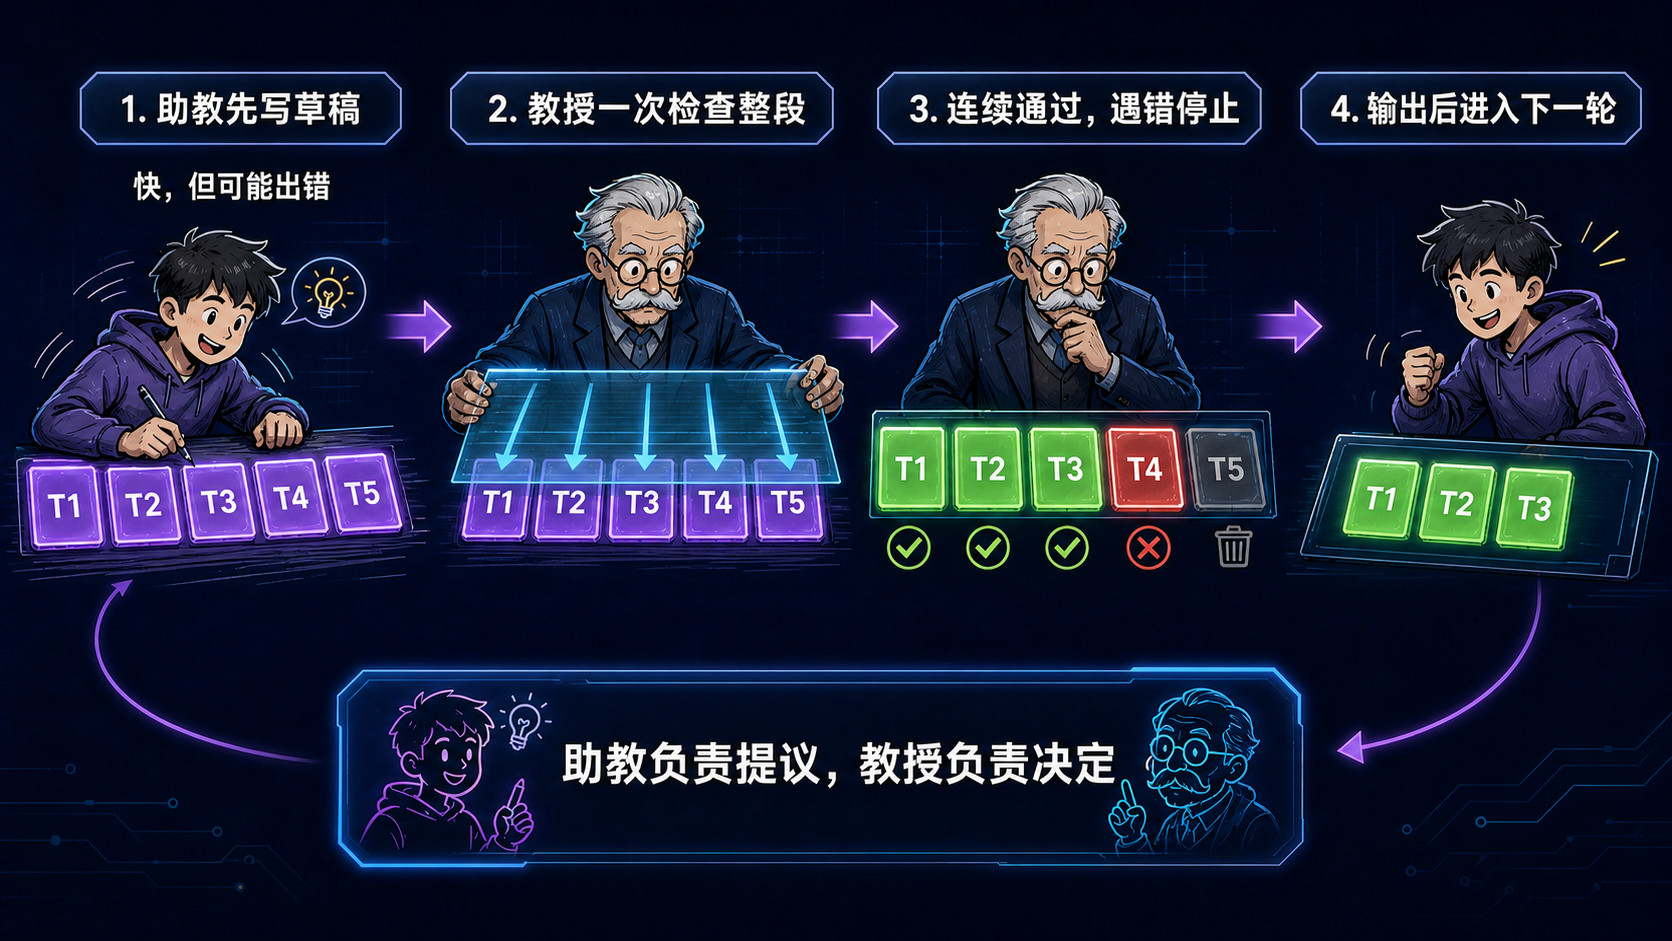
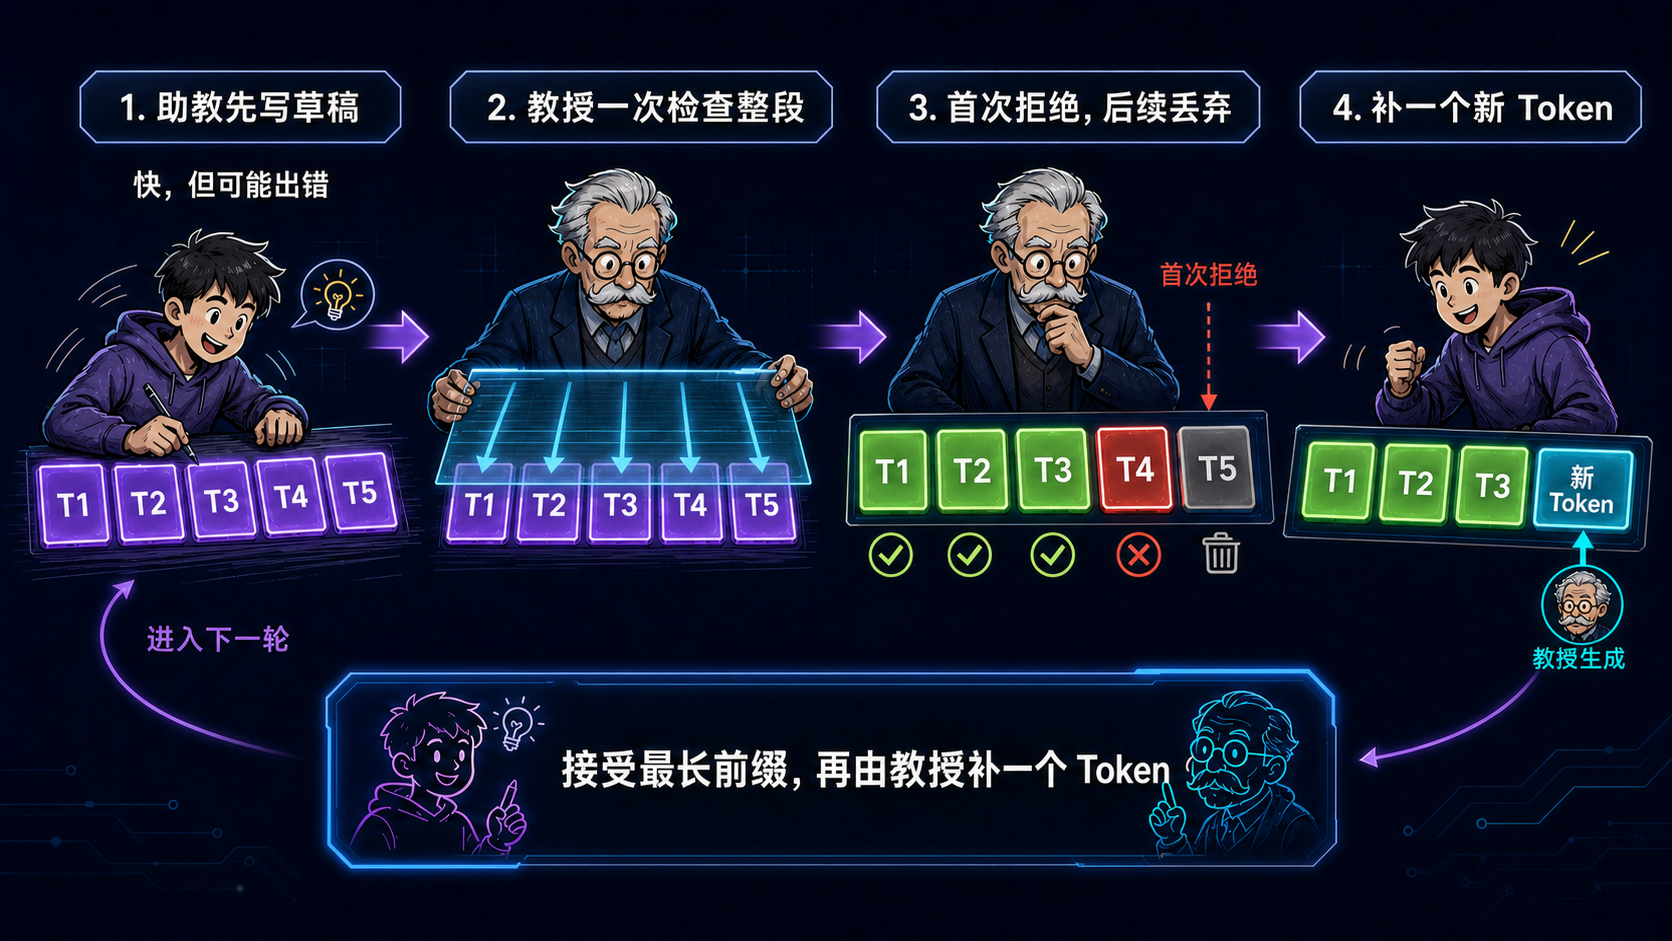
Clarify DSpark rejection and bonus token flow

diff --git a/一文搞懂 DSpark：小模型先猜，主模型验证，为什么反而更快？.md b/一文搞懂 DSpark：小模型先猜，主模型验证，为什么反而更快？.md
@@ -55,7 +55,8 @@ DSpark 草稿模型：提前提出候选
 1. 助教快速写一份草稿；
 2. 老师一次检查整段；
 3. 前面通过的连续采用；
-4. 遇到第一次拒绝就停止。
+4. 遇到第一次拒绝，就停止验收当前草稿块，丢弃后续草稿；
+5. 目标模型补一个新 Token，然后进入下一轮。
 
 ![老师与助教类比](assets/dspark/02-teacher-analogy.png)
 
